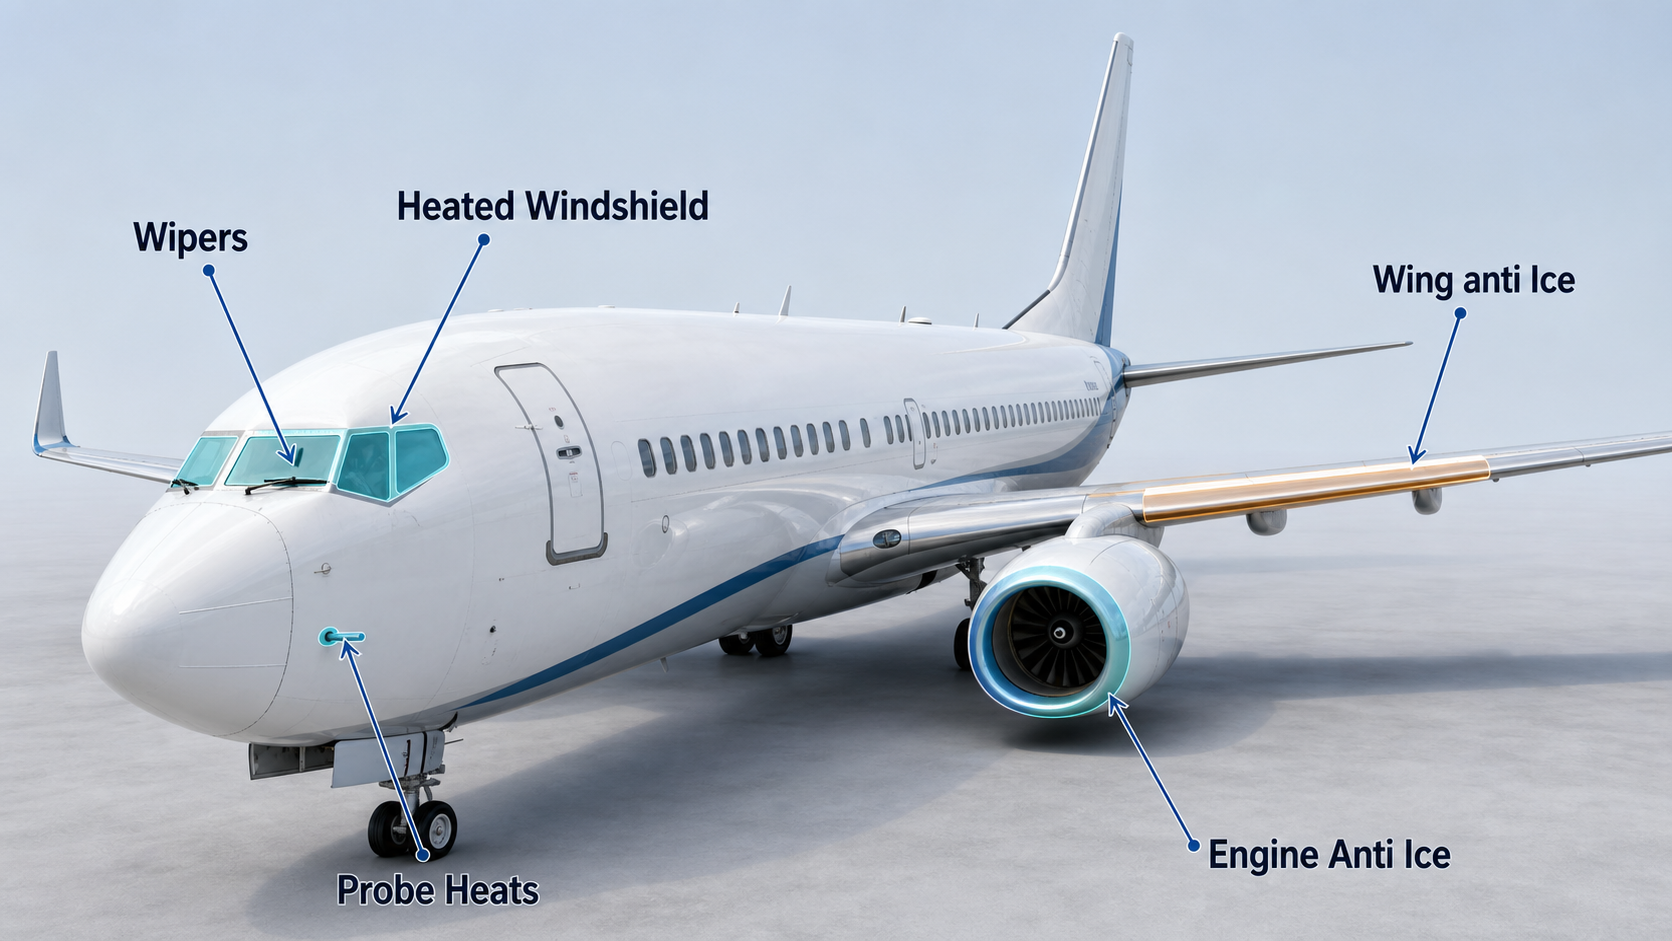
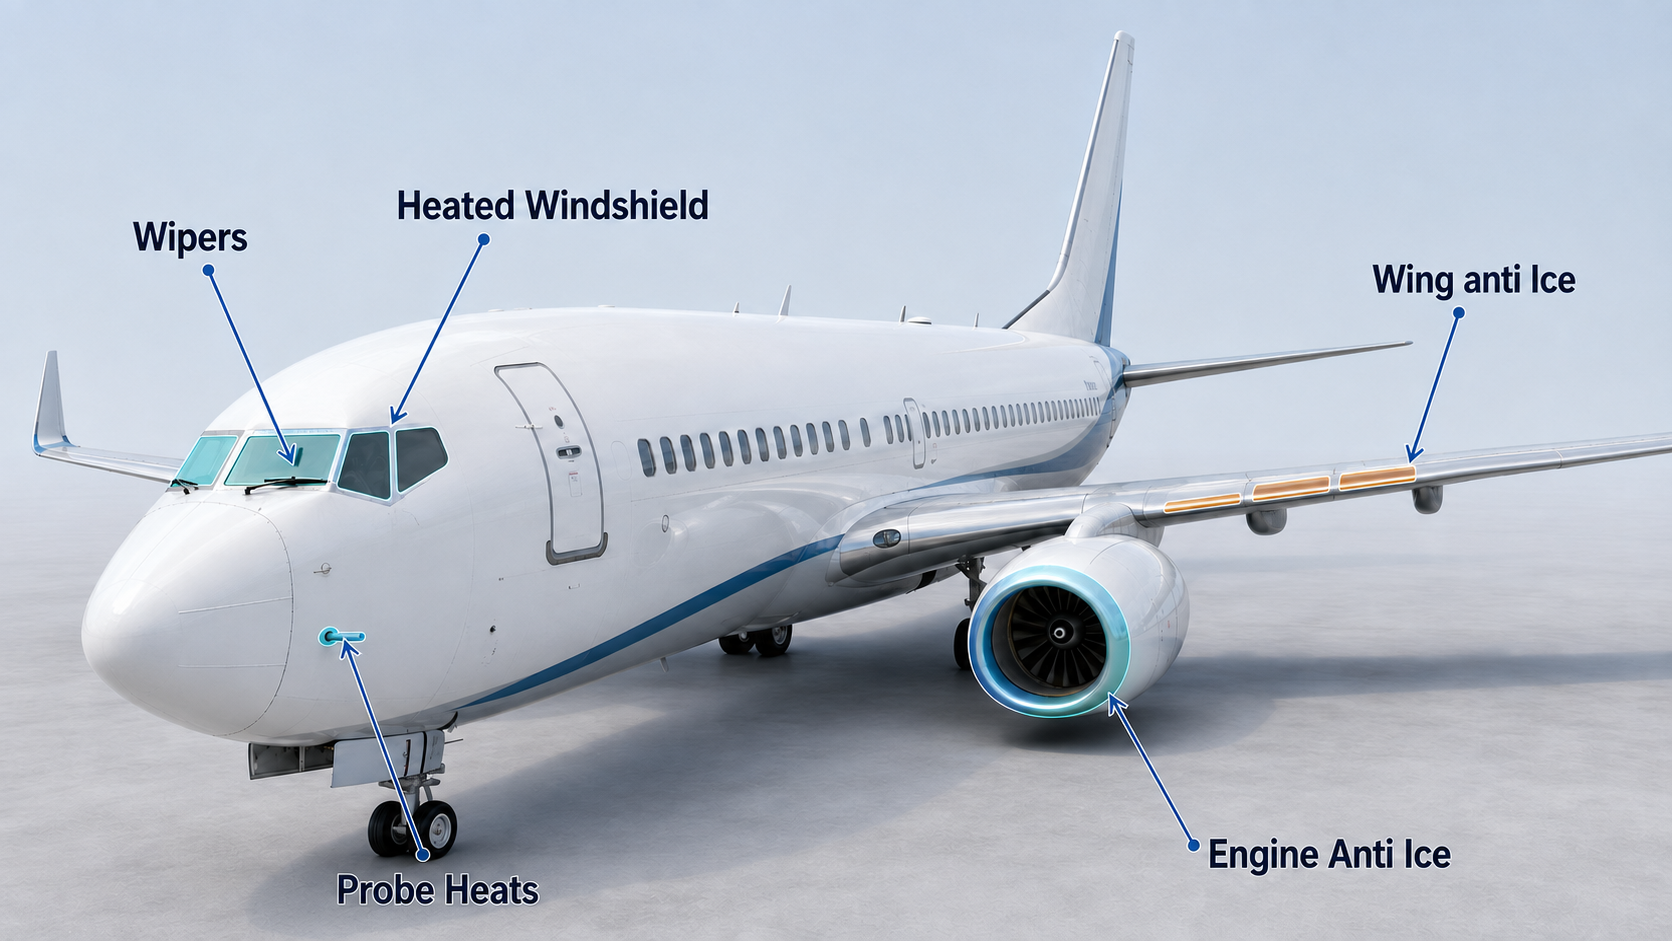
Expand engine anti-ice details

diff --git a/app/systems/anti-ice-rain/page.tsx b/app/systems/anti-ice-rain/page.tsx
@@ -150,15 +150,29 @@ export default function AntiIceRain() {
             <span className="section-num">06 / ENGINE ANTI-ICE</span>
             <h2>Engine bleed air flows through a controlled valve to prevent ice from forming on each engine cowl lip.</h2>
             <h3>Description</h3>
-            <p>Each engine has an electrically controlled, pressure-actuated cowl anti-ice valve. When open, it routes engine bleed air around the cowl lip to prevent ice formation. The cowl system can operate both on the ground and in flight.</p>
+            <p>Each engine has an electrically controlled, pressure-actuated cowl anti-ice valve. When open, it routes engine bleed air around the cowl inlet lip to prevent ice formation. The fan blades and spinner are not heated. The cowl system can operate both on the ground and in flight.</p>
+            <figure className="figure course-photo">
+              <img src="/images/engine-anti-ice-heated-area.png" alt="737 engine showing the heated cowl inlet lip and the unheated fan and spinner" />
+              <figcaption>Engine thermal anti-ice heats the cowl inlet lip. The fan and spinner are not heated.</figcaption>
+            </figure>
+            <p>The cowl anti-ice air takeoff is upstream of the engine bleed valve. Engine anti-ice therefore remains available when the related engine bleed valve is closed; closing the bleed valve does not isolate the cowl anti-ice supply.</p>
+            <div className="configuration-data"><strong>BLEED-AIR SOURCE</strong><p><strong>737 NG:</strong> air is supplied from the 5th or 9th compressor stage. <strong>737 MAX:</strong> air is supplied from the 4th or 10th compressor stage.</p></div>
             <Max>The MAX also protects the engine core. The EEC automatically directs bleed air to the core as required from engine and atmospheric data, with no crew input or indication during normal operation.</Max>
             <h3>Command</h3>
             <p>One ENG ANTI-ICE switch controls the cowl anti-ice valve on each engine. Selecting ON opens the related valve, supplies hot bleed air to the cowl lip and activates icing stall-warning logic. Selecting OFF closes the valve; normal stall-warning logic returns only if wing anti-ice has not been used in flight.</p>
             <Deep title="Go deeper · MAX idle logic"><p>With engine anti-ice ON, the supplied MAX uses icing idle with flaps UP and approach idle with the flaps extended. With engine anti-ice OFF, it uses flight idle below 15° and approach idle at 15° or more.</p></Deep>
             <h3>Warning</h3>
-            <ul className="study-points"><li><strong>COWL ANTI-ICE:</strong> amber indicates excessive pressure downstream of the cowl anti-ice valve.</li><li><strong>TAI:</strong> green when the cowl valve is open; amber when valve position disagrees with the switch.</li></ul>
-            <div className="indication-grid"><div className="indication blue"><strong>NG · COWL VALVE OPEN</strong><p>Dim blue when open; bright blue during transit or when position disagrees.</p></div><div className="indication amber"><strong>MAX · COWL VALVE</strong><p>Amber momentarily during transit and steady for a position disagreement; otherwise extinguished.</p></div></div>
-            <Max>An amber ENG ANTI-ICE light on the MAX indicates that cowl thermal anti-ice has been inhibited by a system failure or that an engine core anti-ice valve has failed closed.</Max>
+            <div className="engine-warning-grid">
+              <div className="engine-warning-card ng">
+                <img src="/images/ng-engine-anti-ice-lights.png" alt="737 NG COWL ANTI-ICE and blue COWL VALVE OPEN lights" />
+                <div><strong>737 NG</strong><p><b>COWL ANTI-ICE · amber:</b> excessive pressure in the duct downstream of the cowl anti-ice valve.</p><p><b>COWL VALVE OPEN · dim blue:</b> the valve is open with its switch ON.</p><p><b>COWL VALVE OPEN · bright blue:</b> the valve is moving or its position disagrees with the switch.</p><p><b>Extinguished:</b> the valve is closed with its switch OFF.</p></div>
+              </div>
+              <div className="engine-warning-card max">
+                <img src="/images/max-engine-anti-ice-lights.png" alt="737 MAX ENG ANTI-ICE, COWL ANTI-ICE and COWL VALVE lights" />
+                <div><strong>737 MAX</strong><p><b>ENG ANTI-ICE · amber:</b> cowl anti-ice is inhibited by a system failure, or an engine core anti-ice valve has failed closed.</p><p><b>COWL ANTI-ICE · amber:</b> excessive pressure downstream of the cowl anti-ice valve.</p><p><b>COWL VALVE · momentary amber:</b> the valve is in transit.</p><p><b>COWL VALVE · steady amber:</b> valve position disagrees with the switch.</p><p><b>COWL VALVE extinguished:</b> the valve agrees with the commanded open or closed position.</p></div>
+              </div>
+            </div>
+            <p>The engine display also shows a <strong>green TAI</strong> indication when the cowl valve is open and the related ENG ANTI-ICE switch is ON. An <strong>amber TAI</strong> indicates that valve position does not agree with the switch.</p>
             <Need title="Cowl lip on NG · cowl and core on MAX"><p>The flight crew directly selects cowl anti-ice. MAX core anti-ice is automatic through the EEC.</p></Need>
             <Source>NG 3.10.4–5, 3.20.5–6 · MAX 3.10.3–4, 3.20.4–6</Source>
           </section>

diff --git a/app/globals.css b/app/globals.css
@@ -1891,6 +1891,20 @@ summary:focus-visible {
 .wing-warning-card.max { background: #fff7e9; border-color: #e8c982; color: #775000; }
 .wing-warning-card img { display: block; width: 100%; height: auto; image-rendering: auto; }
 .wing-warning-card p { margin: 7px 0 0 !important; }
+.engine-warning-grid { display: grid; gap: 16px; margin: 20px 0; }
+.engine-warning-card {
+  display: grid;
+  grid-template-columns: minmax(180px, 250px) 1fr;
+  gap: 24px;
+  align-items: start;
+  padding: 20px;
+  border: 1px solid;
+  border-radius: 14px;
+}
+.engine-warning-card.ng { background: #eef6ff; border-color: #aacbe8; color: #234f78; }
+.engine-warning-card.max { background: #fff7e9; border-color: #e8c982; color: #775000; }
+.engine-warning-card img { display: block; width: 100%; height: auto; }
+.engine-warning-card p { margin: 7px 0 0 !important; }
 .max-alert-overview { display: grid; grid-template-columns: minmax(220px, 310px) 1fr; align-items: center; gap: 22px; margin: 18px 0; padding: 16px; border: 1px solid #cfd8ef; border-radius: 12px; background: #f3f5fc; }
 .max-alert-overview img { display: block; width: 100%; height: auto; }
 .max-alert-overview p { margin: 0 !important; color: #505d7d !important; }
@@ -1901,6 +1915,8 @@ summary:focus-visible {
   .window-alert-card img { max-width: 220px; }
   .wing-warning-card { grid-template-columns: 1fr; }
   .wing-warning-card img { max-width: 240px; }
+  .engine-warning-card { grid-template-columns: 1fr; }
+  .engine-warning-card img { max-width: 260px; }
 }
 .pump-warning > div > strong {
   color: #9a6500;
